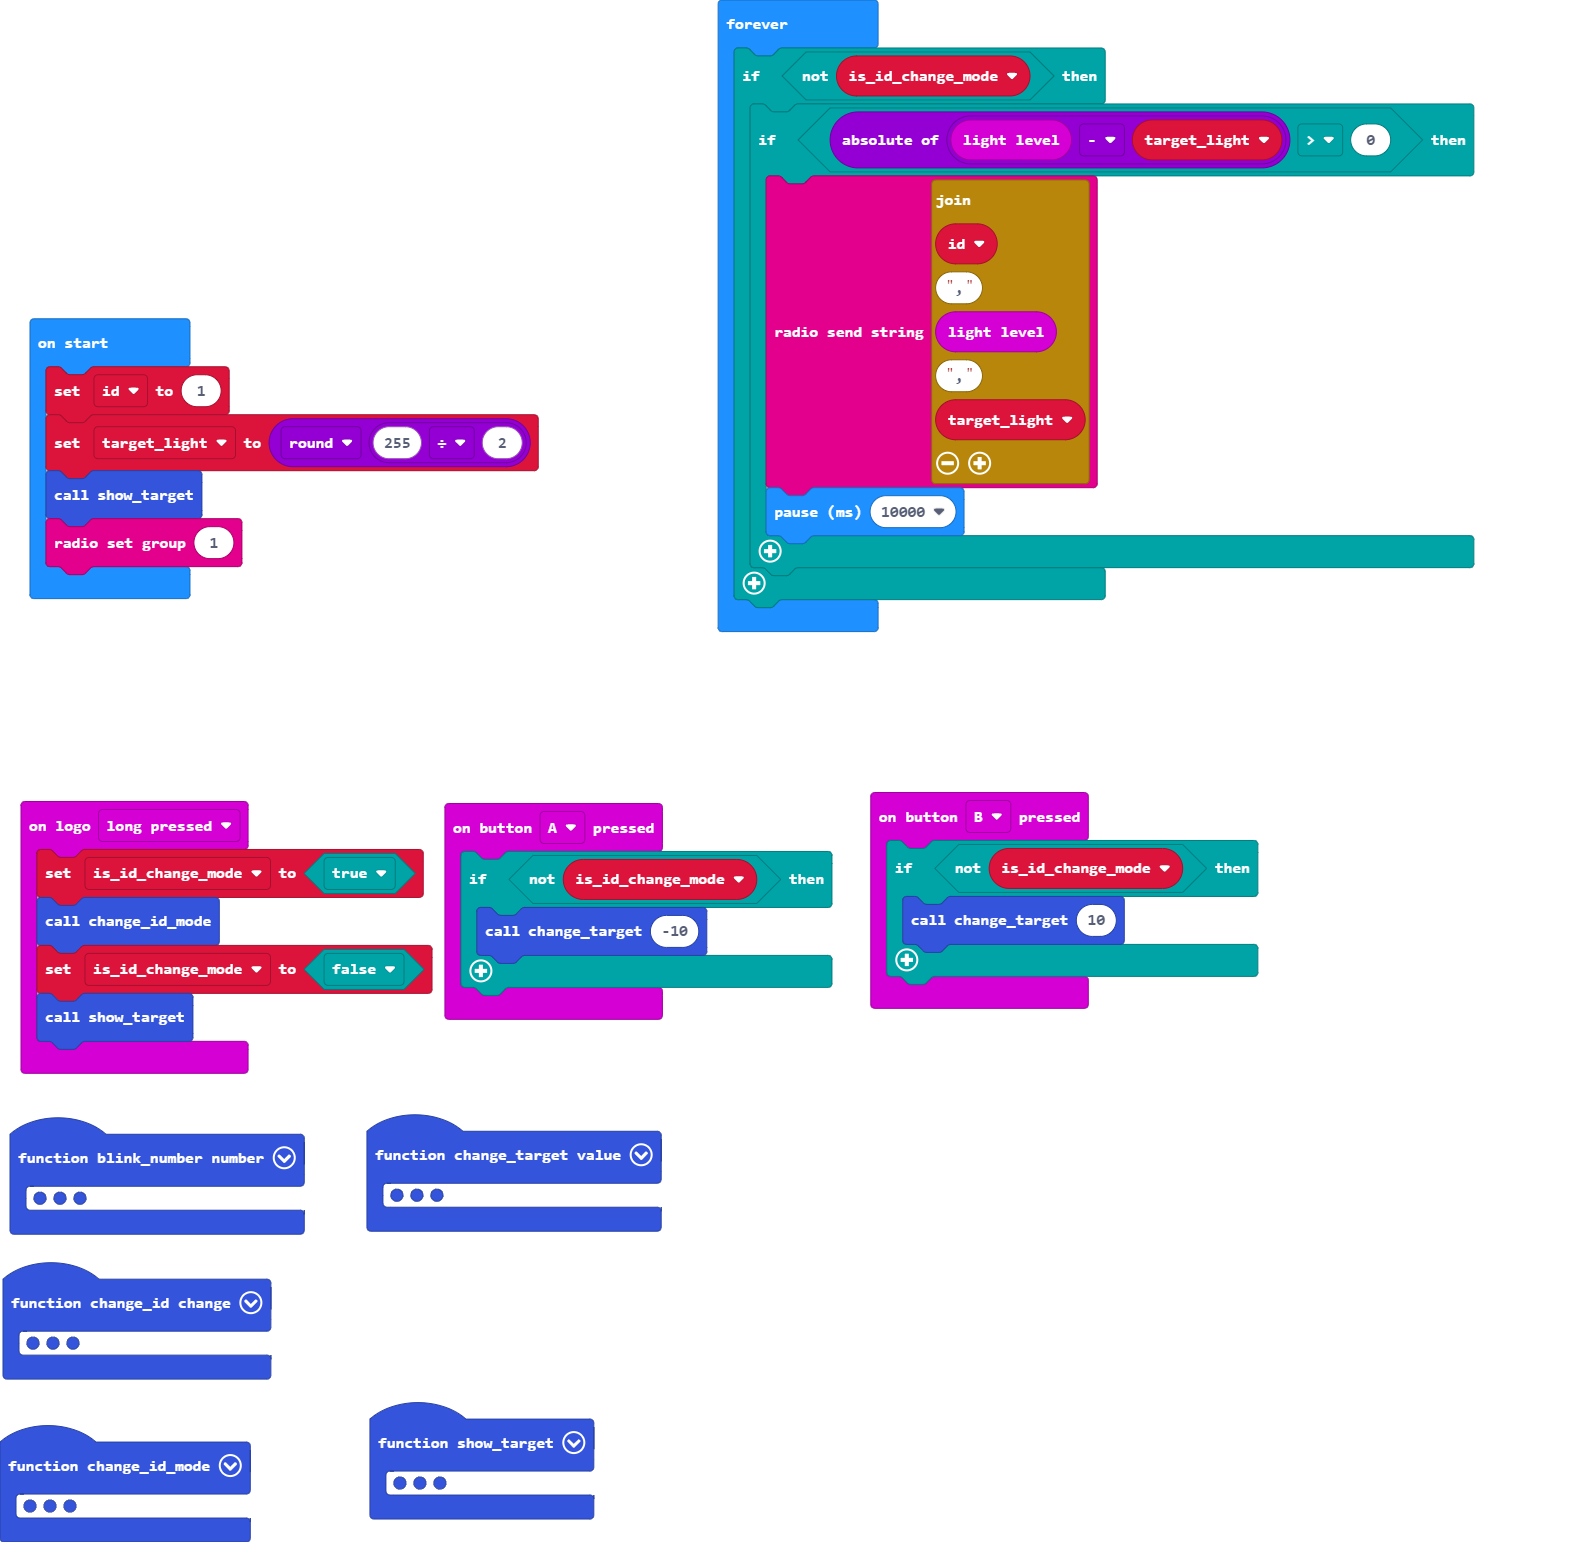
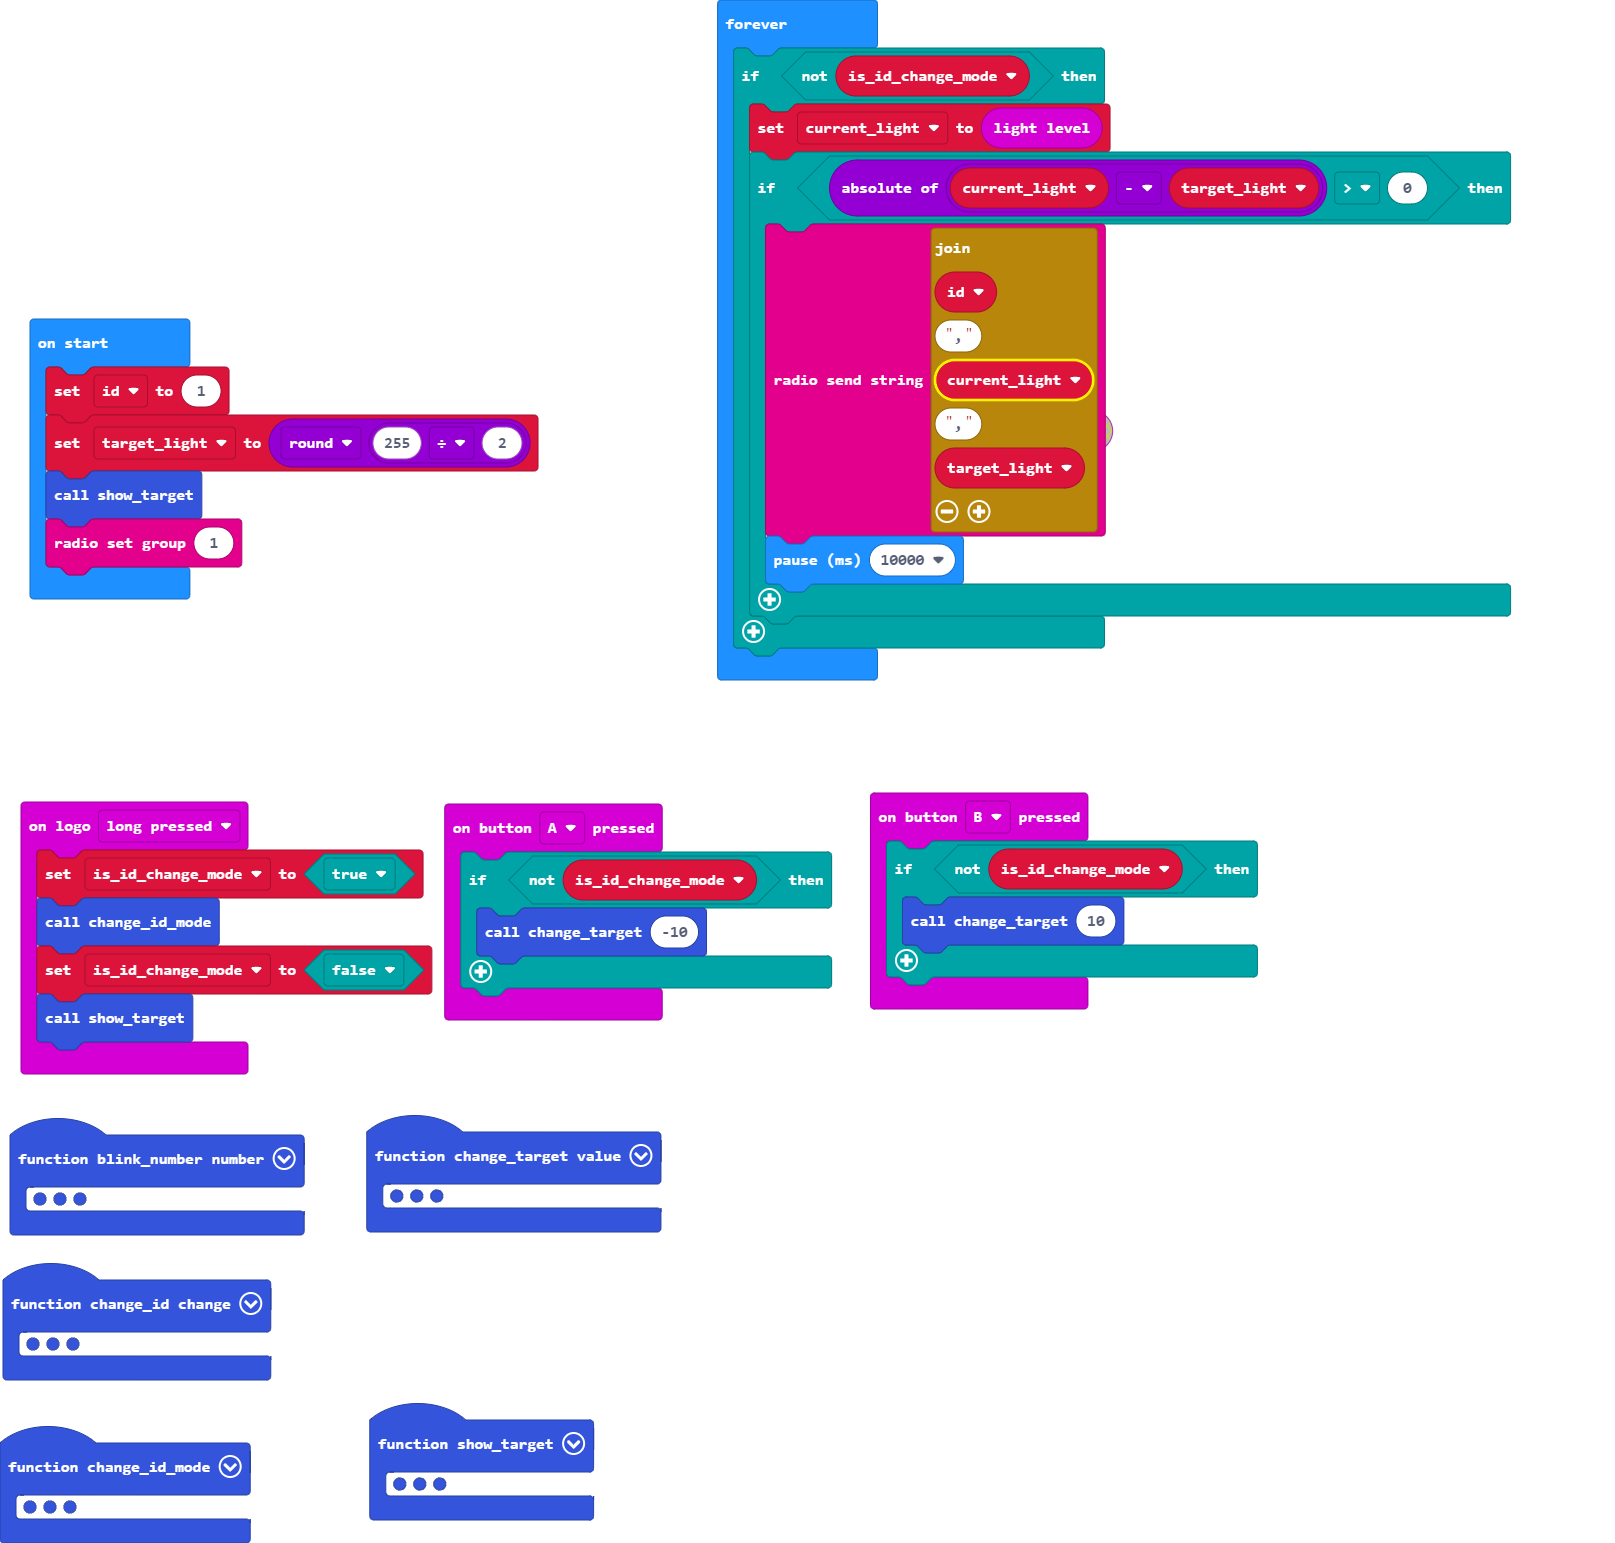
Update main.blocks, main.ts

diff --git a/main.ts b/main.ts
@@ -50,6 +50,7 @@ function change_id_mode () {
     }
     blink_number(id)
 }
+let current_light = 0
 let id_change_timeout = 0
 let is_id_change_mode = false
 let target_light = 0
@@ -60,8 +61,9 @@ show_target()
 radio.setGroup(1)
 basic.forever(function () {
     if (!(is_id_change_mode)) {
-        if (Math.abs(input.lightLevel() - target_light) > 0) {
-            radio.sendString("" + id + "," + input.lightLevel() + "," + target_light)
+        current_light = input.lightLevel()
+        if (Math.abs(current_light - target_light) > 0) {
+            radio.sendString("" + id + "," + current_light + "," + target_light)
             basic.pause(10000)
         }
     }
